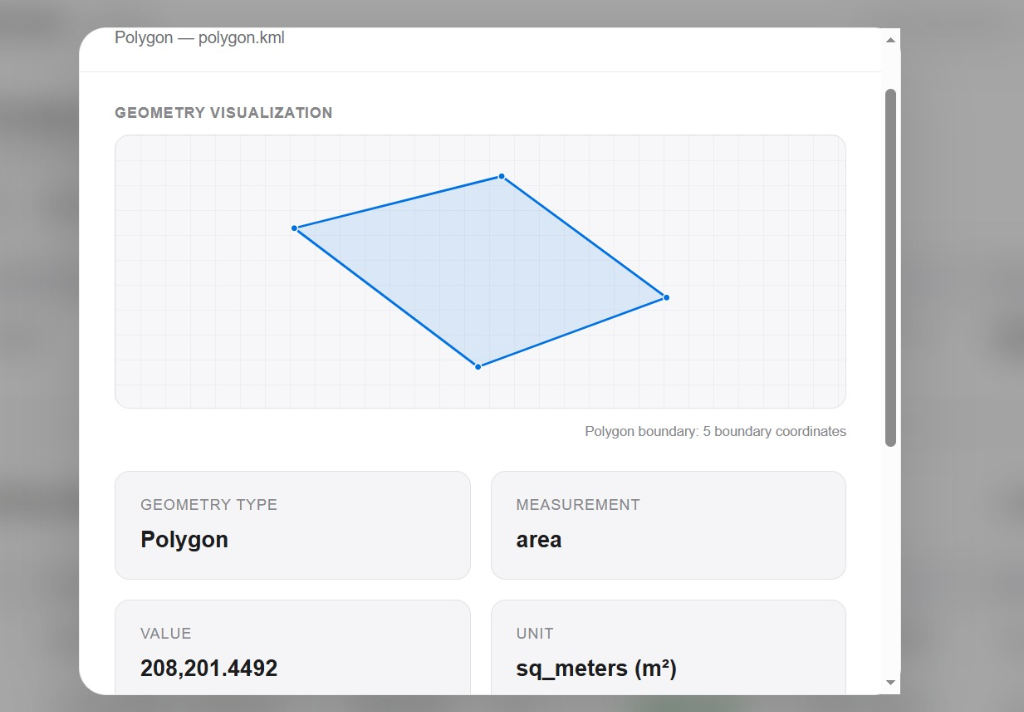
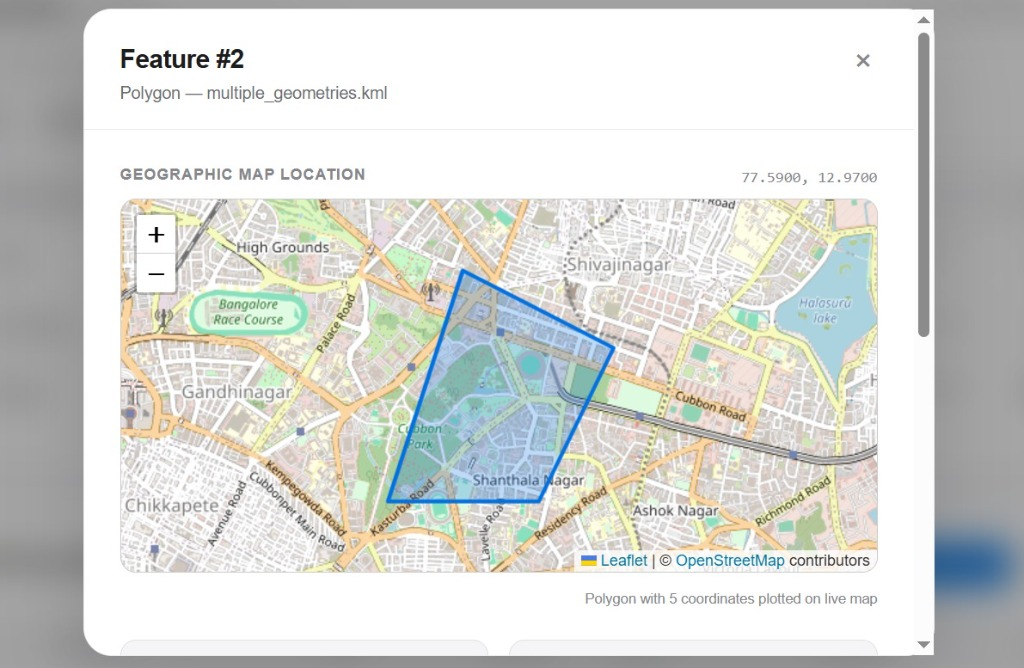
docs: add live Render deployment link, update screenshot assets, and convert pipeline to Mermaid block diagram

diff --git a/README.md b/README.md
@@ -1,5 +1,13 @@
 # Geospatial File Measurement API & Processing Engine
 
+[![Live Deployment](https://img.shields.io/badge/Render-Live%20Demo-46E3B7?style=for-the-badge&logo=render&logoColor=white)](https://geospatial-measurement-api-u4qi.onrender.com/)
+[![Interactive Swagger Docs](https://img.shields.io/badge/Swagger-API%20Docs-85EA2D?style=for-the-badge&logo=swagger&logoColor=black)](https://geospatial-measurement-api-u4qi.onrender.com/docs)
+[![Python](https://img.shields.io/badge/Python-3.12-3776AB?style=for-the-badge&logo=python&logoColor=white)](https://www.python.org/)
+[![FastAPI](https://img.shields.io/badge/FastAPI-0.115-009688?style=for-the-badge&logo=fastapi&logoColor=white)](https://fastapi.tiangolo.com/)
+
+> 🚀 **Live Production Application**: [https://geospatial-measurement-api-u4qi.onrender.com/](https://geospatial-measurement-api-u4qi.onrender.com/)  
+> 📖 **Interactive API Documentation (Swagger)**: [https://geospatial-measurement-api-u4qi.onrender.com/docs](https://geospatial-measurement-api-u4qi.onrender.com/docs)
+
 A production-grade backend service and analytics interface built with **FastAPI**, **LangGraph**, and **Supabase / PostGIS**, designed to ingest geospatial files (ESRI Shapefiles in `.zip` archives and Keyhole Markup Language `.kml`), validate geometries, auto-reproject geographic coordinates to optimal metric projected coordinate reference systems (UTM), and calculate high-precision spatial measurements.
 
 <p align="center">
@@ -37,47 +45,34 @@ A production-grade backend service and analytics interface built with **FastAPI*
 
 ## Architecture & LangGraph Pipeline
 
-```
-               [ User Upload: .zip / .kml ]
-                            │
-                            ▼
-              ┌──────────────────────────┐
-              │   POST /api/files/       │
-              └─────────────┬────────────┘
-                            │
-                            ▼
-           ══════════ LangGraph Pipeline ══════════
-           ┌──────────────────────────────────────┐
-           │        validate_input Node           │
-           └──────────────────┬───────────────────┘
-                              │ Valid?
-                      ┌───────┴───────┐
-                 Yes  ▼               ▼  No
-           ┌──────────────────────┐ ┌──────────────────┐
-           │ extract_features Node│ │handle_error Node │
-           └──────────┬───────────┘ └────────┬─────────┘
-                      │ Extracted?           │
-               ┌──────┴──────┐               │
-          Yes  ▼             ▼  No           │
-┌──────────────────────────┐ │               │
-│calculate_measurements    │ │               │
-│ - Geographic check       │ │               │
-│ - Centroid UTM projection│ │               │
-│ - Metric Area / Length   │ │               │
-└─────────────┬────────────┘ │               │
-              │              ▼               │
-              │       ┌──────────────┐       │
-              │       │ handle_error │       │
-              │       └──────┬───────┘       │
-              ▼              │               │
-     ┌─────────────────┐     │               │
-     │ persist_results │     │               │
-     └────────┬────────┘     │               │
-              ▼              ▼               │
-           ══════════════════════════════════╛
-                            │
-                            ▼
-         [ Database: Supabase / SQLite ]
+```mermaid
+flowchart TD
+    classDef input fill:#e0f2fe,stroke:#0284c7,stroke-width:2px,color:#0369a1;
+    classDef route fill:#f1f5f9,stroke:#64748b,stroke-width:1.5px,color:#334155;
+    classDef nodeStyle fill:#ffffff,stroke:#2563eb,stroke-width:2px,color:#1e3a8a;
+    classDef decision fill:#fef3c7,stroke:#d97706,stroke-width:2px,color:#92400e;
+    classDef error fill:#fee2e2,stroke:#ef4444,stroke-width:2px,color:#991b1b;
+    classDef storage fill:#f0fdf4,stroke:#16a34a,stroke-width:2px,color:#166534;
+
+    Upload["User Upload: .zip / .kml"]:::input --> POST["POST /api/files/"]:::route
+    POST --> PipelineStart(["Start LangGraph Pipeline"])
+
+    subgraph LangGraph_Pipeline["LangGraph StateGraph Workflow Engine"]
+        PipelineStart --> V["validate_input Node"]:::nodeStyle
+        V --> V_Check{"Valid Format & Schema?"}:::decision
+        
+        V_Check -- "Yes" --> E["extract_features Node<br/>(Fiona Shapefile / Native KML)"]:::nodeStyle
+        V_Check -- "No" --> Err["handle_error Node<br/>(Record failure & error details)"]:::error
+        
+        E --> E_Check{"Features Extracted?"}:::decision
+        E_Check -- "Yes" --> C["calculate_measurements Node<br/>• EPSG:4326 Geographic Check<br/>• Centroid-based Metric UTM Projection<br/>• Polygon Area (m²) & Line Length (m)"]:::nodeStyle
+        E_Check -- "No" --> Err
+        
+        C --> P["persist_results Node<br/>(Transactional commit)"]:::nodeStyle
+    end
+
+    P --> DB[("Database Storage<br/>Supabase PostGIS / SQLite")]:::storage
+    Err --> DB
 ```
 
 ### Database Schema & Entity Relationships (Supabase)
